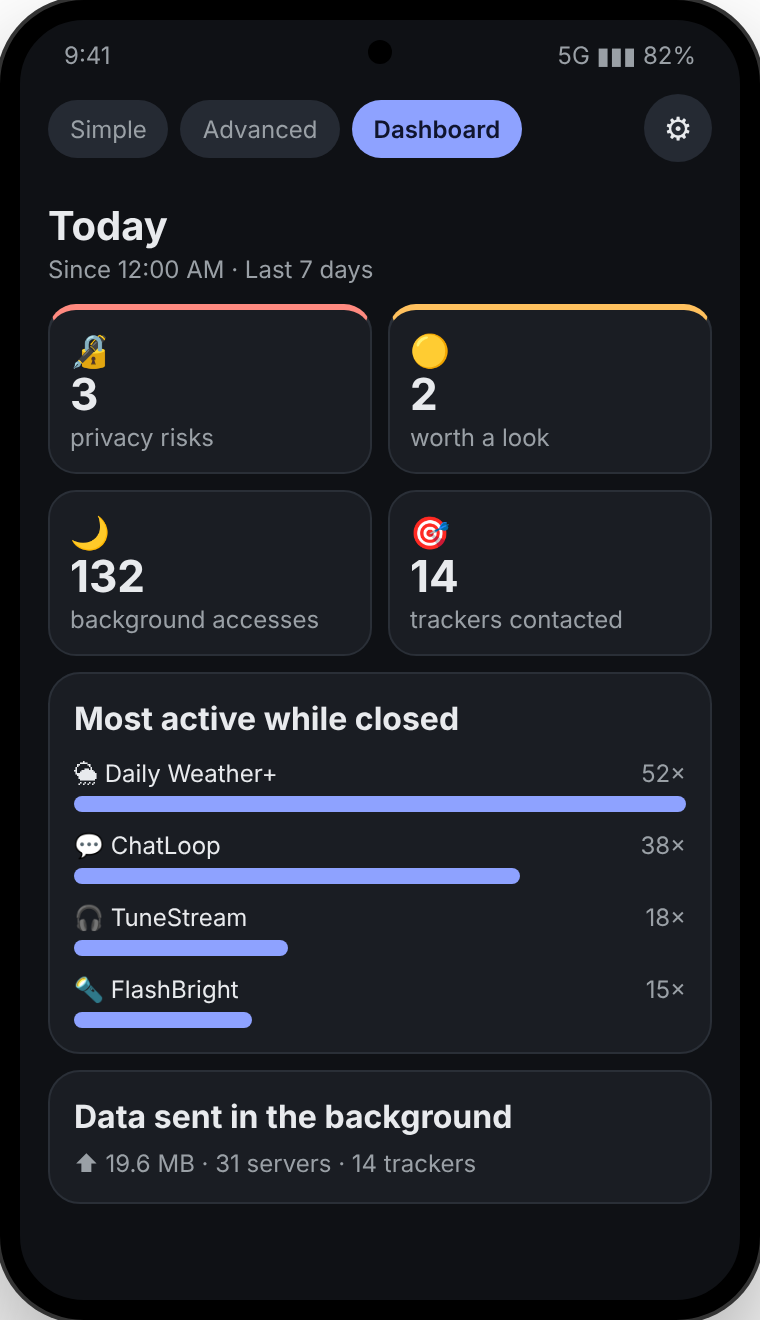
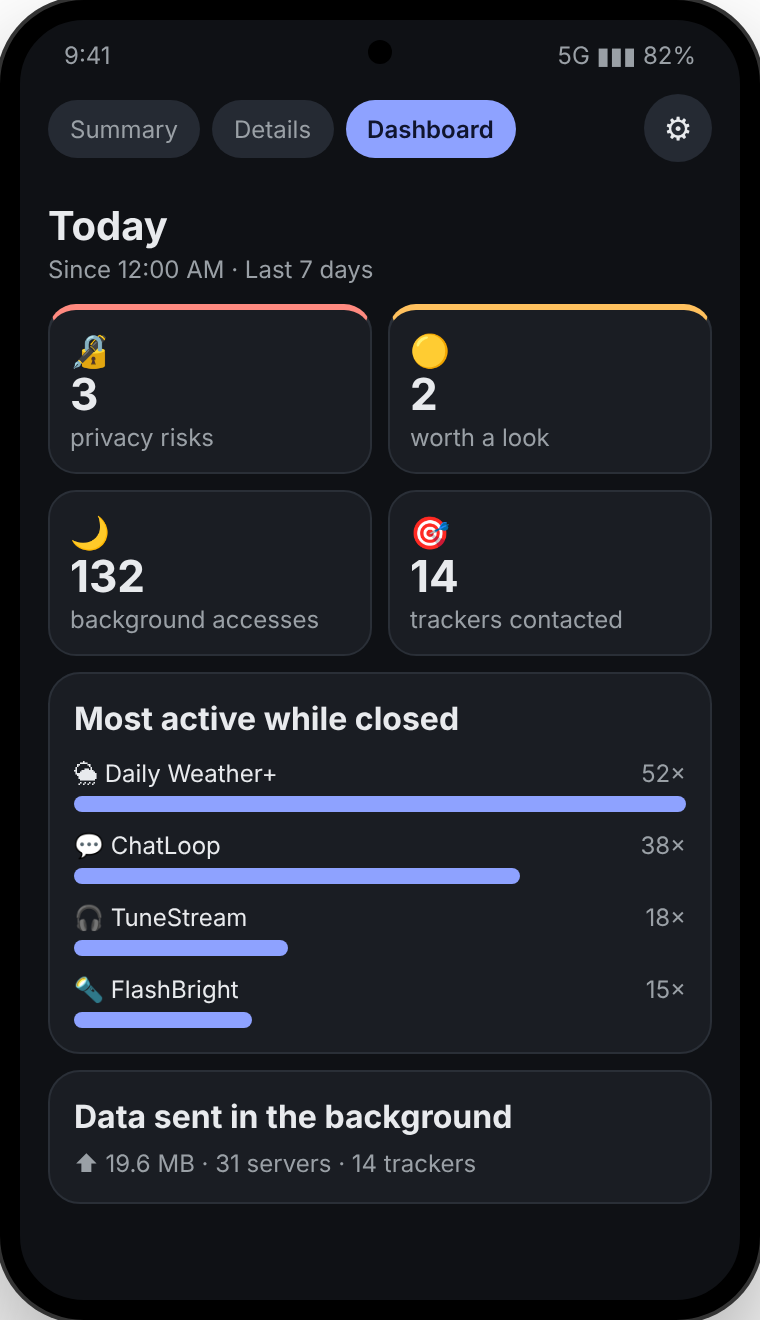
Show the renamed Summary and Details tabs; release notes v0.9.79
Claude-Session: https://claude.ai/code/session_01XdjYnQbAyse5DfWRDQtaw8

Changed region(s): [[0.1211, 0.0621, 0.6961, 0.1242]]

diff --git a/index.html b/index.html
@@ -111,7 +111,7 @@
         <span class="badge">🚫 No ads</span><span class="badge">🚫 No analytics</span><span class="badge">📱 Everything stays on your phone</span><span class="badge">↩ Undo for every fix</span>
       </div>
     </div>
-    <img class="phone" src="img/simple.png?v=2" alt="Privacy Watch's Simple screen listing three apps that need attention, with Fix it buttons">
+    <img class="phone" src="img/simple.png?v=3" alt="Privacy Watch's Summary screen listing three apps that need attention, with Fix it buttons">
   </div>
 </div>
 
@@ -130,7 +130,7 @@
         <li>Plain-English "How it could be misused" — by a company and by an attacker</li>
       </ul>
     </div>
-    <img class="phone" src="img/simple.png?v=2" alt="Findings list with red privacy risks and an amber worth-a-look item">
+    <img class="phone" src="img/simple.png?v=3" alt="Findings list with red privacy risks and an amber worth-a-look item">
   </div>
 
   <div class="feature flip">
@@ -143,7 +143,7 @@
         <li>Access → network links within two minutes</li>
       </ul>
     </div>
-    <img class="phone" src="img/timeline.png?v=2" alt="Timeline for a weather app showing location accesses followed by tracker lookups">
+    <img class="phone" src="img/timeline.png?v=3" alt="Timeline for a weather app showing location accesses followed by tracker lookups">
   </div>
 
   <div class="feature">
@@ -156,7 +156,7 @@
         <li>Before / after counts so you can see it worked</li>
       </ul>
     </div>
-    <img class="phone" src="img/fix.png?v=2" alt="Fix it confirmation listing battery restriction, background data block and contacts block">
+    <img class="phone" src="img/fix.png?v=3" alt="Fix it confirmation listing battery restriction, background data block and contacts block">
   </div>
 
   <div class="feature flip">
@@ -169,7 +169,7 @@
         <li>Re-applying is part of the original fix</li>
       </ul>
     </div>
-    <img class="phone" src="img/undone.png?v=2" alt="A card saying a fix was undone for a music app, with Re-apply and Leave it buttons">
+    <img class="phone" src="img/undone.png?v=3" alt="A card saying a fix was undone for a music app, with Re-apply and Leave it buttons">
   </div>
 
   <div class="feature">
@@ -182,7 +182,7 @@
         <li>Tracker domains and who contacted them</li>
       </ul>
     </div>
-    <img class="phone" src="img/dashboard.png?v=2" alt="Dashboard with tiles for privacy risks, background accesses and trackers, and a most-active list">
+    <img class="phone" src="img/dashboard.png?v=3" alt="Dashboard with tiles for privacy risks, background accesses and trackers, and a most-active list">
   </div>
 
   <div class="feature flip">
@@ -195,7 +195,7 @@
         <li>User-installed certificates, hidden apps, screen recording</li>
       </ul>
     </div>
-    <img class="phone" src="img/audit.png?v=2" alt="Settings audit showing a sideloaded QR scanner with accessibility access flagged for review">
+    <img class="phone" src="img/audit.png?v=3" alt="Settings audit showing a sideloaded QR scanner with accessibility access flagged for review">
   </div>
 </div></section>
 
@@ -224,11 +224,11 @@
   <p class="sub">Generate a report on the phone and email it as a PDF or open it in your browser. Built on the phone — nothing is uploaded to make it. These samples use made-up apps and data.</p>
   <div class="reports">
     <a class="report" href="/samples/executive-report.html">
-      <img src="img/report-executive.png?v=2" alt="Sample executive summary report with status tiles and donut charts" loading="lazy">
+      <img src="img/report-executive.png?v=3" alt="Sample executive summary report with status tiles and donut charts" loading="lazy">
       <div><strong>Executive summary</strong><span>A one-page answer to "is my phone OK?": what needs attention, what was fixed, and how each finding could be misused.</span><b>Open sample →</b></div>
     </a>
     <a class="report" href="/samples/technical-report.html">
-      <img src="img/report-technical.png?v=2" alt="Sample technical report with collection status, domain charts and activity over time" loading="lazy">
+      <img src="img/report-technical.png?v=3" alt="Sample technical report with collection status, domain charts and activity over time" loading="lazy">
       <div><strong>Technical report</strong><span>Every chart and table: domains, hour-by-hour activity, a heatmap per app, data sent, access → network links and the settings audit.</span><b>Open sample →</b></div>
     </a>
   </div>
@@ -247,12 +247,12 @@
 <section><div class="wrap">
   <h2>Gallery</h2>
   <div class="gallery">
-    <figure><img src="img/simple.png?v=2" alt="" loading="lazy"><figcaption>Findings</figcaption></figure>
-    <figure><img src="img/timeline.png?v=2" alt="" loading="lazy"><figcaption>Timeline</figcaption></figure>
-    <figure><img src="img/dashboard.png?v=2" alt="" loading="lazy"><figcaption>Dashboard</figcaption></figure>
-    <figure><img src="img/fix.png?v=2" alt="" loading="lazy"><figcaption>Fix it</figcaption></figure>
-    <figure><img src="img/undone.png?v=2" alt="" loading="lazy"><figcaption>Fix check</figcaption></figure>
-    <figure><img src="img/audit.png?v=2" alt="" loading="lazy"><figcaption>Settings audit</figcaption></figure>
+    <figure><img src="img/simple.png?v=3" alt="" loading="lazy"><figcaption>Findings</figcaption></figure>
+    <figure><img src="img/timeline.png?v=3" alt="" loading="lazy"><figcaption>Timeline</figcaption></figure>
+    <figure><img src="img/dashboard.png?v=3" alt="" loading="lazy"><figcaption>Dashboard</figcaption></figure>
+    <figure><img src="img/fix.png?v=3" alt="" loading="lazy"><figcaption>Fix it</figcaption></figure>
+    <figure><img src="img/undone.png?v=3" alt="" loading="lazy"><figcaption>Fix check</figcaption></figure>
+    <figure><img src="img/audit.png?v=3" alt="" loading="lazy"><figcaption>Settings audit</figcaption></figure>
   </div>
 </div></section>
 

diff --git a/changelog.html b/changelog.html
@@ -12,6 +12,7 @@ footer{border-top:1px solid var(--line);padding-top:16px;color:var(--muted);font
 </style></head><body><main>
 <a href="/">← Privacy Watch</a>
 <h1>Release notes</h1><p style="color:var(--muted)">What changed in each version. The same notes are in the app under ⚙ → What's new.</p>
+<section><h2>v0.9.79 · October 13, 2026</h2><ul><li>Tabs renamed: Simple is now Summary, and Advanced is now Details, to match the executive summary and the detailed technical report (and to avoid confusion with &quot;advanced access&quot;).</li></ul></section>
 <section><h2>v0.9.78 · October 13, 2026</h2><ul><li>One-tap reports: &quot;Email me this summary&quot; at the bottom of Simple, and &quot;Technical report&quot; at the bottom of Advanced. The full 📄 Reports screen stays on the Dashboard.</li></ul></section>
 <section><h2>v0.9.77 · October 13, 2026</h2><ul><li>⚙ now opens a full Settings screen, grouped into Plan, Appearance, Protection, Help and Data.</li><li>Theme is one Auto / Light / Dark switch.</li><li>Reports moved to a 📄 Reports button on the Dashboard.</li></ul></section>
 <section><h2>v0.9.75 · October 13, 2026</h2><ul><li>About screen in ⚙: version, plan, links and open-source licences.</li><li>What&#x27;s new (this page) in ⚙.</li><li>Logs now record each update, to help with troubleshooting.</li><li>Fix check now covers fixes made before v0.9.72.</li></ul></section>
